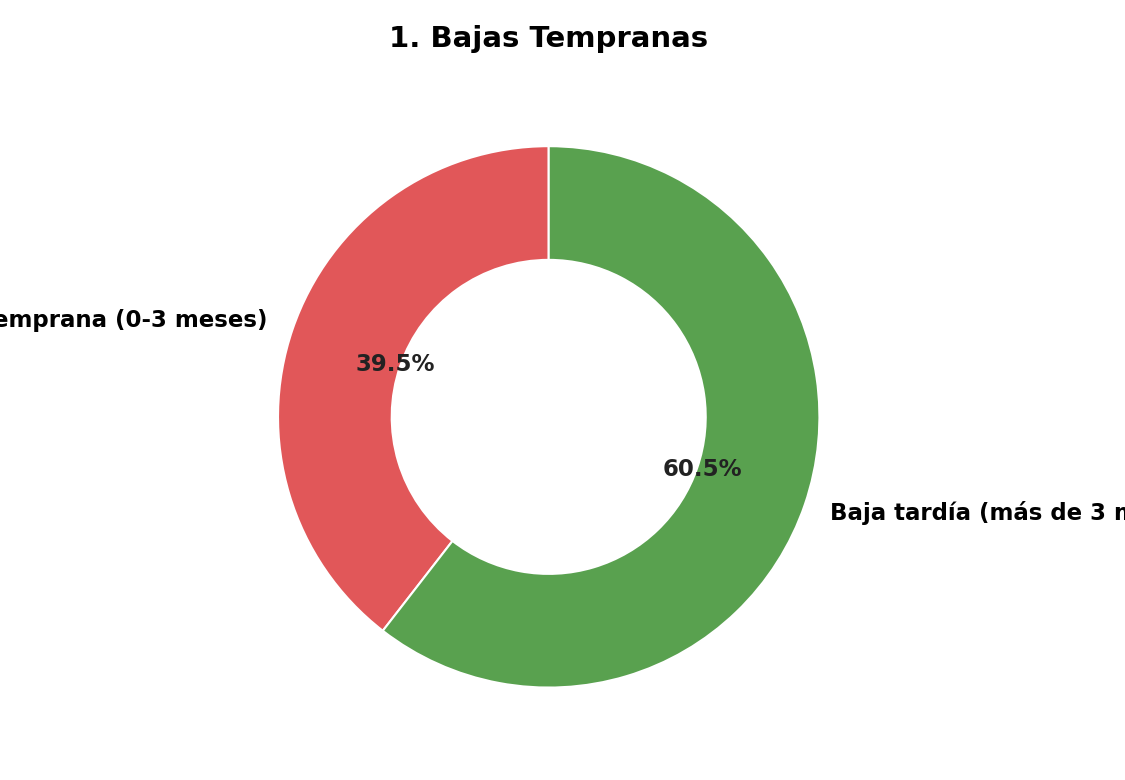
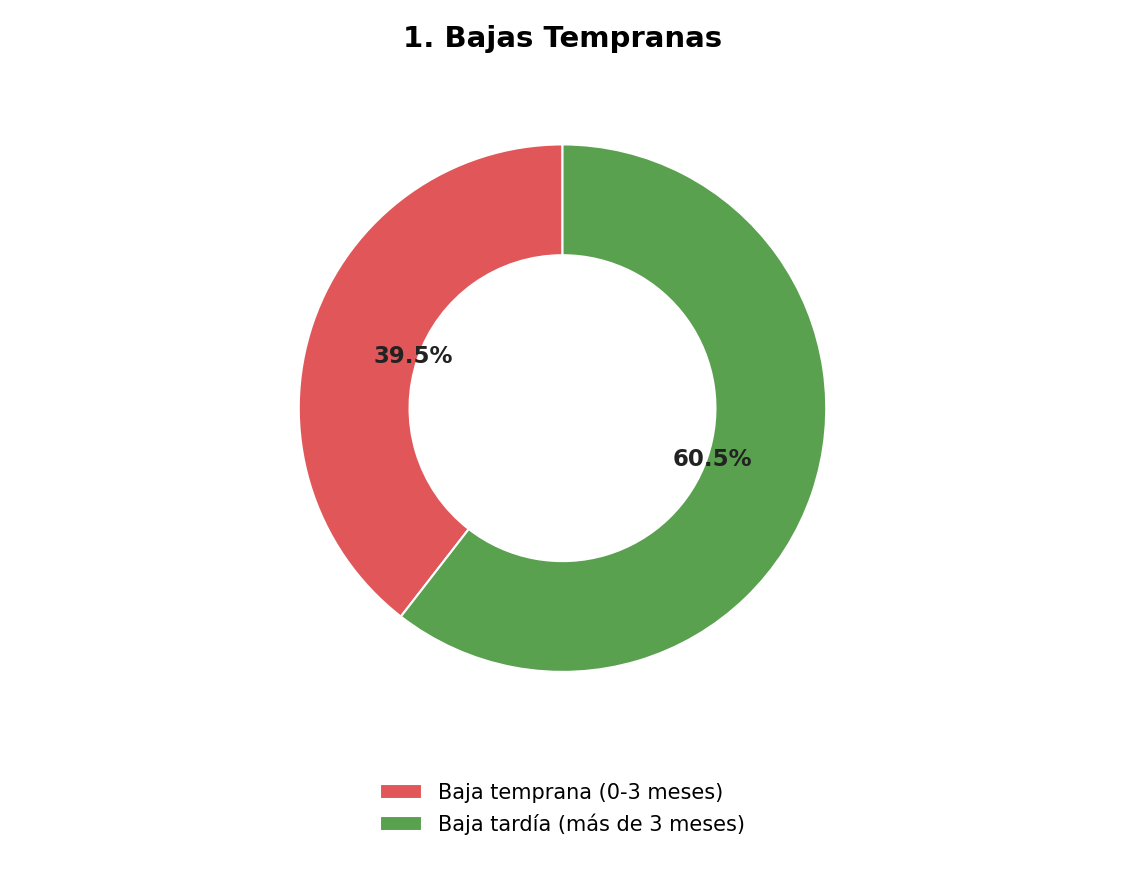
Corregir etiquetas de grafica 1

diff --git a/generar_graficas_auto.py b/generar_graficas_auto.py
@@ -233,11 +233,10 @@ def main():
         numero_query, titulo_base = titular(nombre_base)
 
         if nombre_base == "query1_bajas_tempranas":
-            fig, ax = plt.subplots(figsize=(7.5, 5.2))
+            fig, ax = plt.subplots(figsize=(7.5, 5.8))
             colores = [COLOR_ALERTA, COLOR_BUENO][:len(df_ordenado)]
             wedges, texts, autotexts = ax.pie(
                 df_ordenado[col_valor],
-                labels=df_ordenado["_etiqueta"].astype(str),
                 autopct=lambda pct: f"{pct:.1f}%",
                 startangle=90,
                 colors=colores,
@@ -248,6 +247,15 @@ def main():
                 autotext.set_color("#222222")
             ax.set_aspect("equal")
             ax.set_title(f"{numero_query}. {titulo_base}", fontsize=14, fontweight="bold", pad=15)
+            ax.legend(
+                wedges,
+                df_ordenado["_etiqueta"].astype(str),
+                loc="upper center",
+                bbox_to_anchor=(0.5, -0.04),
+                ncol=1,
+                frameon=False,
+                fontsize=10,
+            )
         elif nombre_base == "query2_retencion_por_grupo":
             fig, ax = plt.subplots(figsize=(9, 6))
             colores = color_por_valor(df_ordenado[col_valor])
